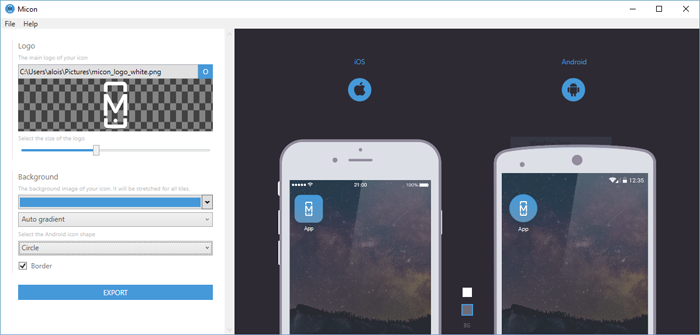
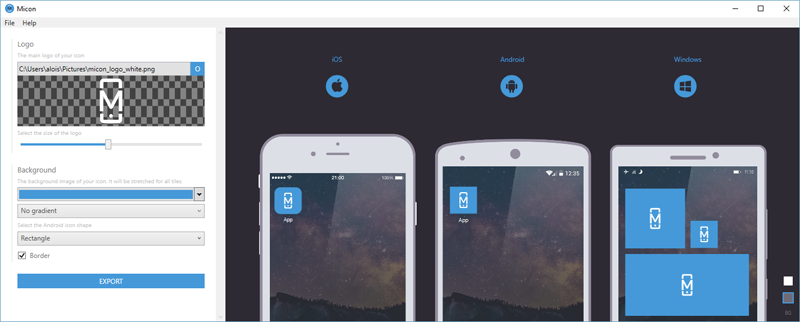
Updated doc & screenshot.

diff --git a/README.md b/README.md
@@ -1,6 +1,6 @@
 ![Logo](Design/Logo.png)
 
-Micon is small tool for generating quickly your mobile app icons.
+Micon is a small tool for generating quickly your mobile app icons.
 
 ## Downloads
 
@@ -19,7 +19,7 @@ Micon is small tool for generating quickly your mobile app icons.
 
 ## Roadmap
 
-* Add Windows (Phone) tile icons support
+* Add Shortcuts
 * Mac version 
 * Separate settings for each target
 * Generation from command line
@@ -29,7 +29,7 @@ Micon is small tool for generating quickly your mobile app icons.
 
 ## About
 
-This [Xamarin](https://www.xamarin.com/) application has been initiated for testing out different frameworks : [ReactiveUI](http://reactiveui.net/), [Fody](https://github.com/Fody/Fody), [Autofac](https://autofac.org/), [Xamarin.Mac](https://developer.xamarin.com/guides/mac/).
+This WPF/[Xamarin](https://www.xamarin.com/) application has been initiated for testing out different frameworks : [ReactiveUI](http://reactiveui.net/), [Fody](https://github.com/Fody/Fody), [Autofac](https://autofac.org/), [Xamarin.Mac](https://developer.xamarin.com/guides/mac/).
 
 After some experiments, the application seemed to be useful because of the lack of this type of application so I've decided to actually release it. Consequently, the quality of the code may not be the best I've produced... I apologize for this. Don't hesitate to participate or to make suggestions as github issues.
 
